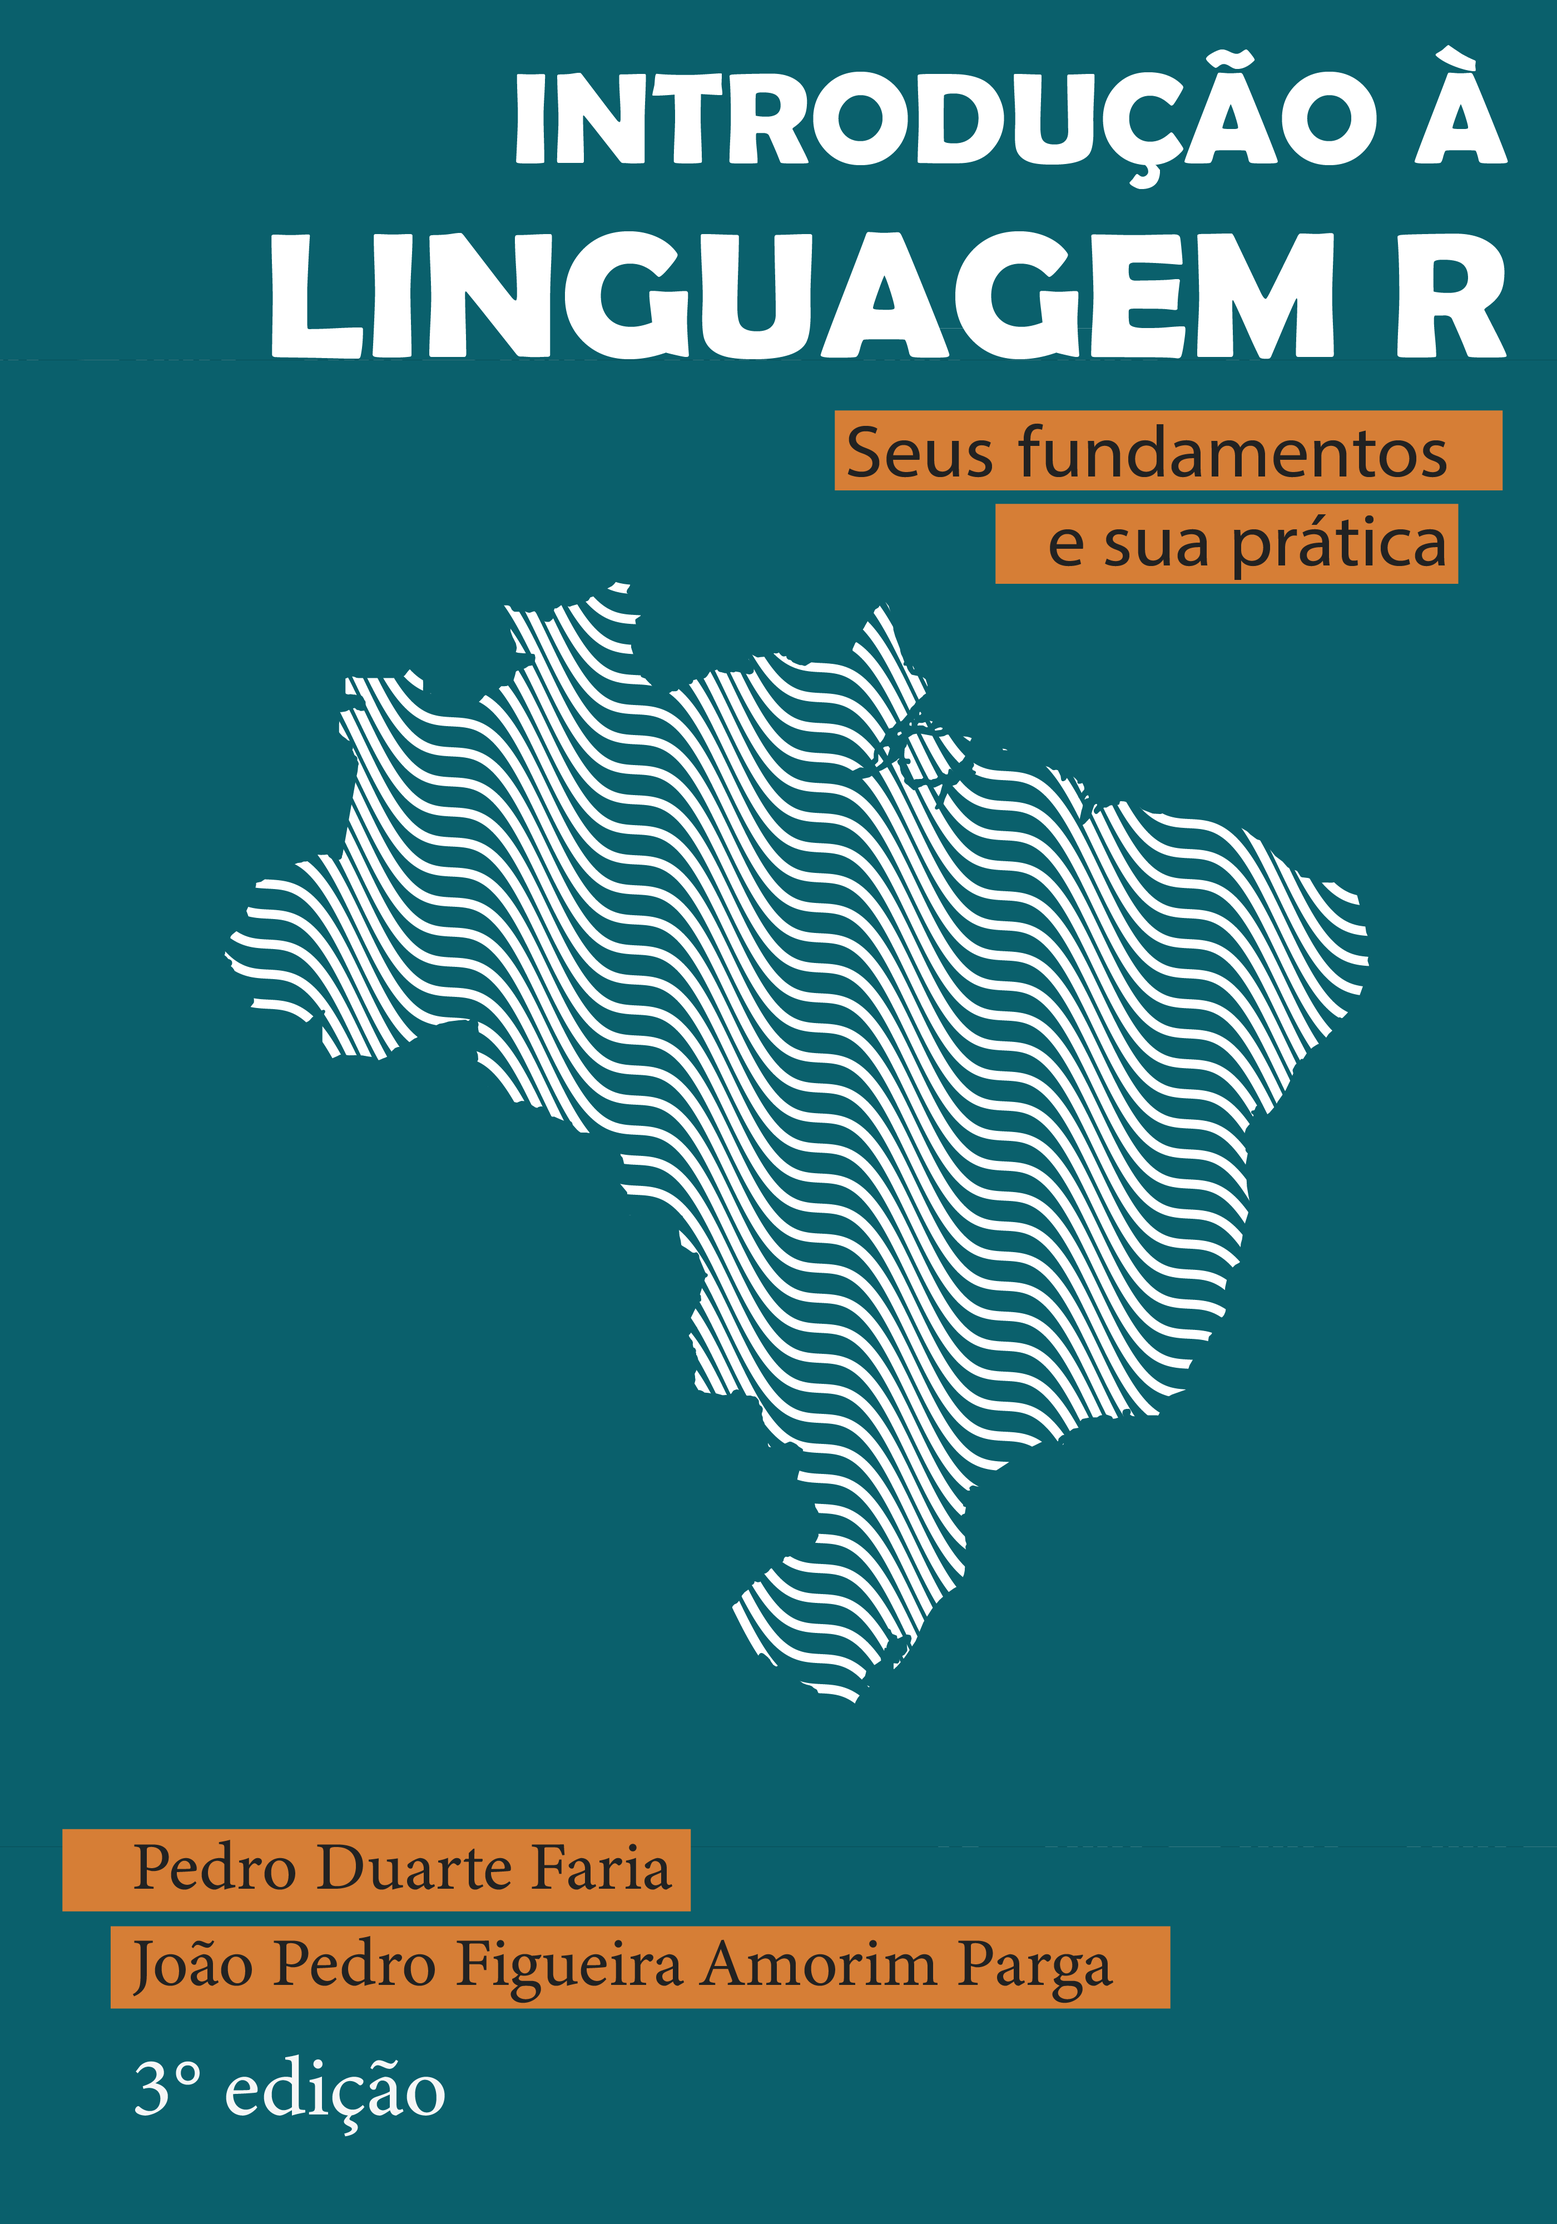
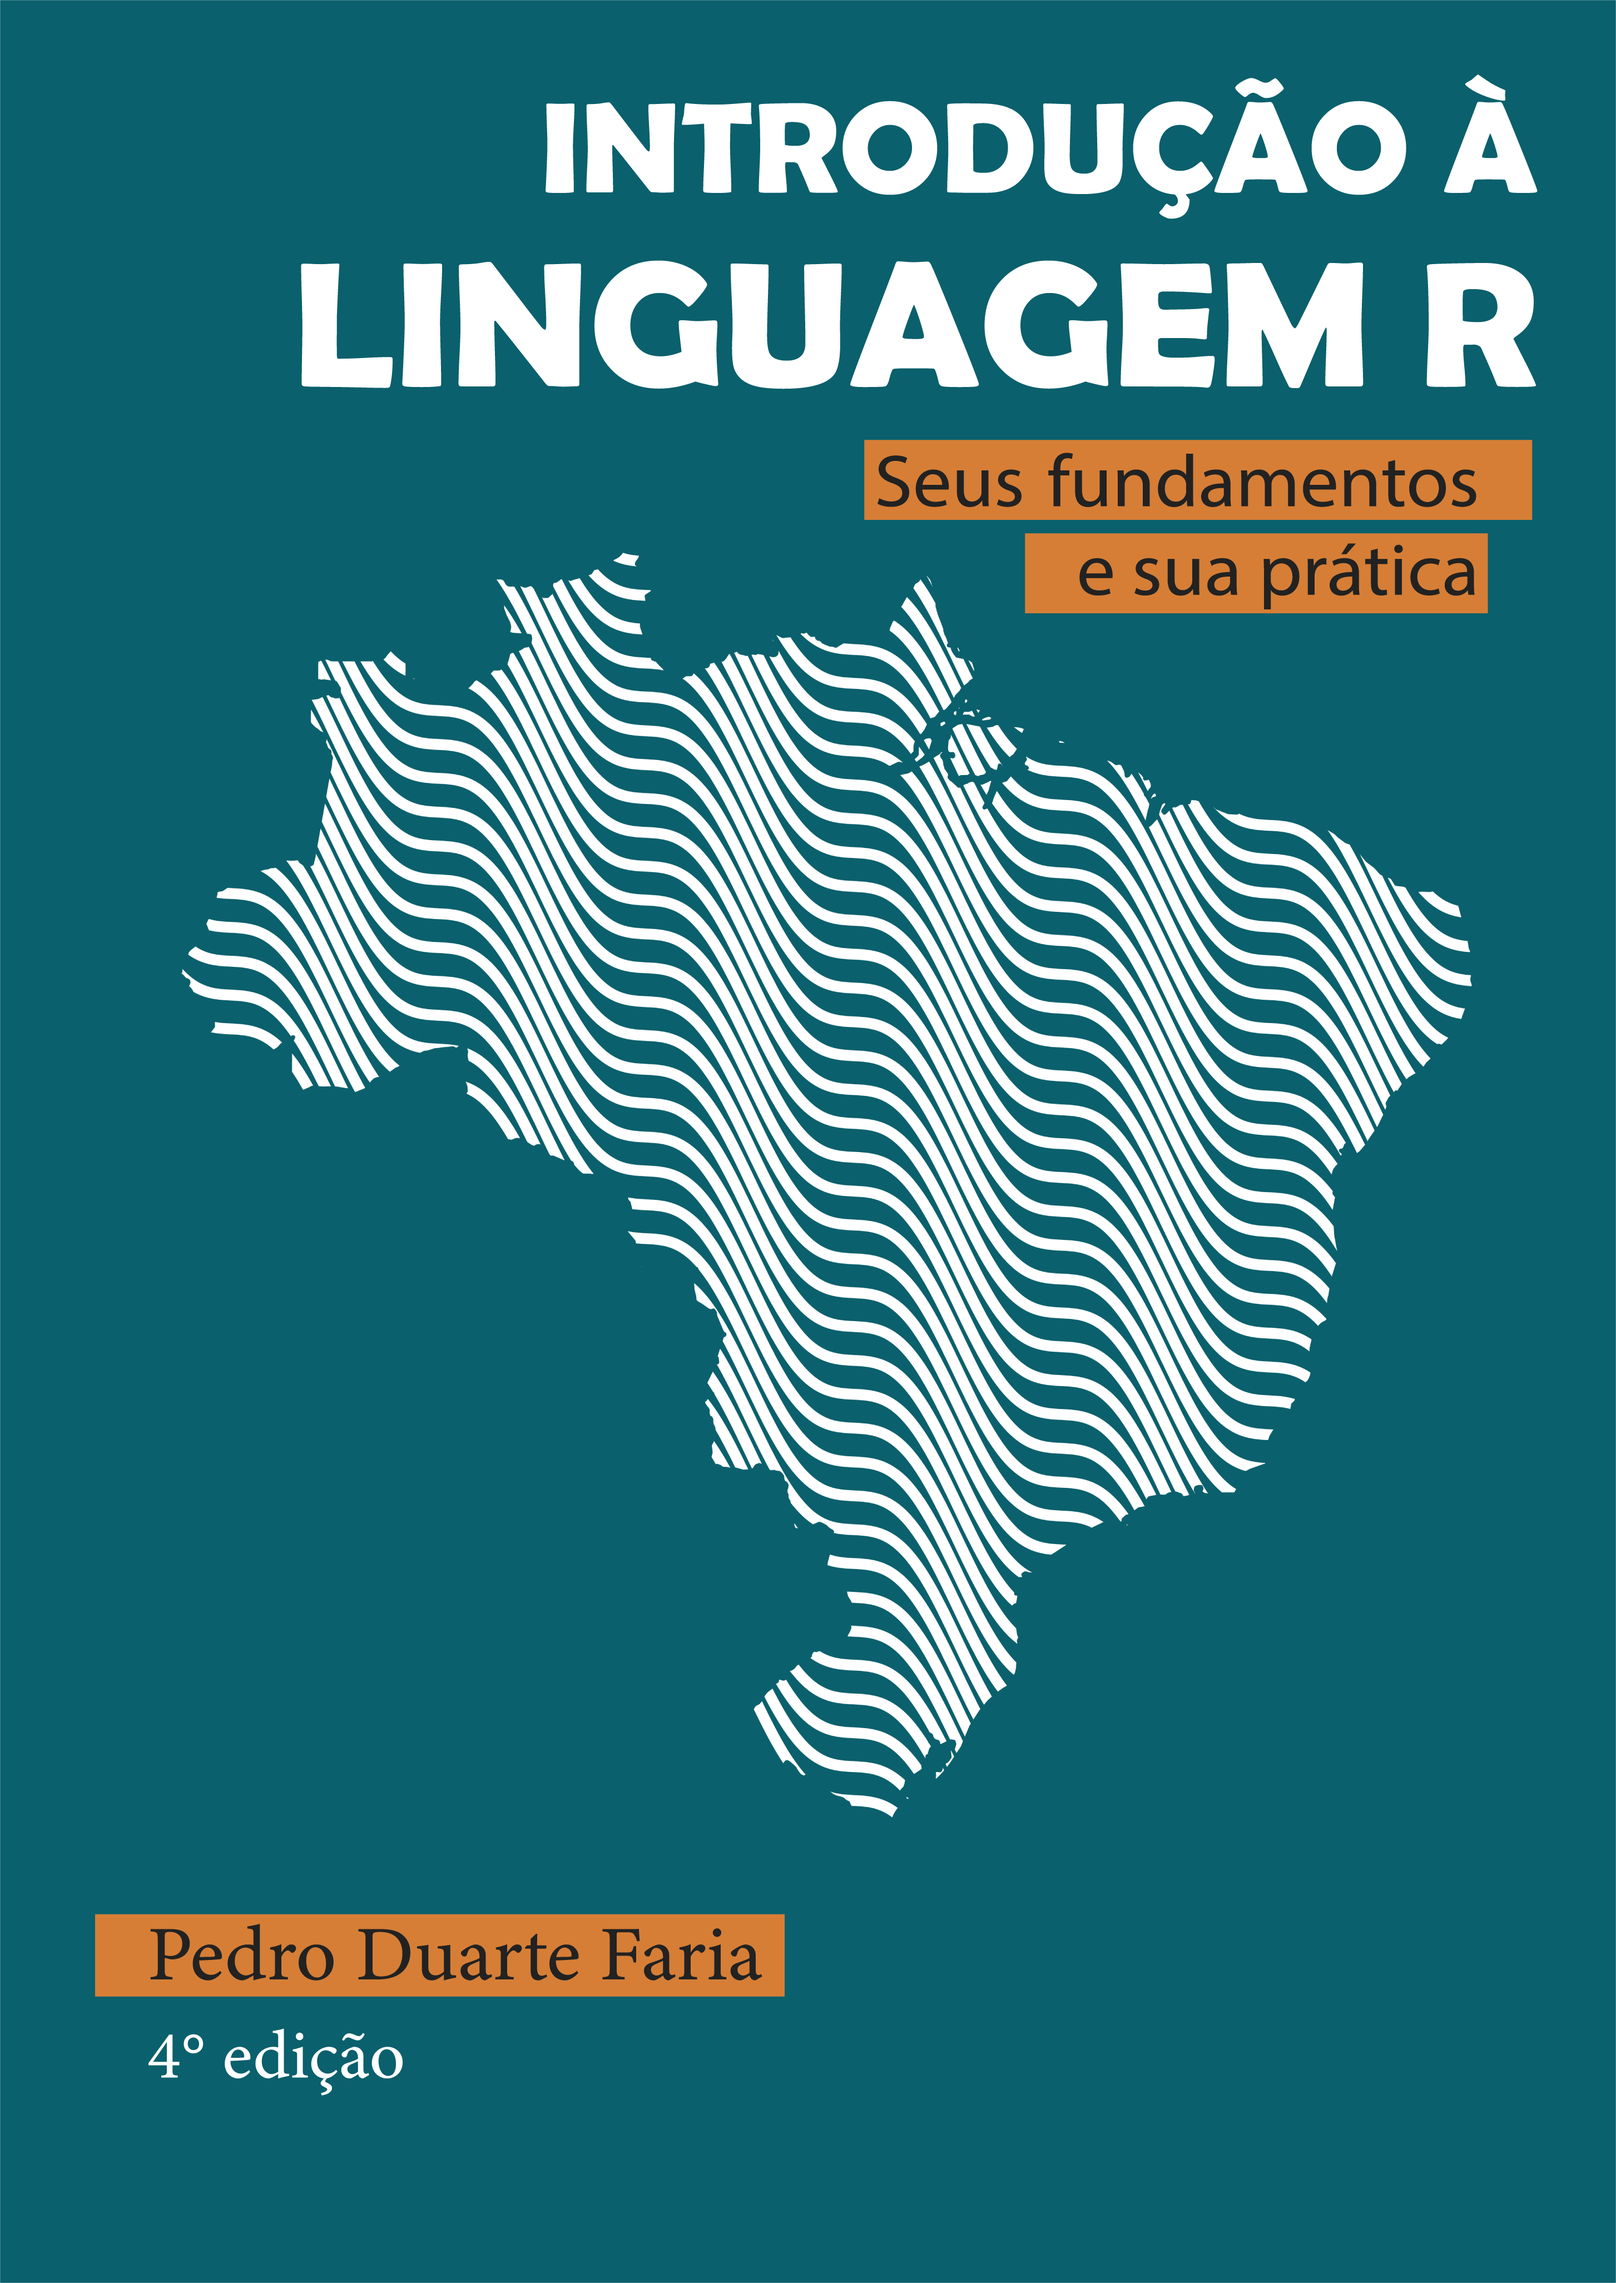
Update publication page

Changed region(s): [[0.1243, 0.0, 0.9632, 0.8125], [0.0311, 0.8125, 0.7768, 0.9688]]

diff --git a/_site/publications/book/introducao_linguagem_R/pt/index.html b/_site/publications/book/introducao_linguagem_R/pt/index.html
@@ -7,7 +7,7 @@
 <meta name="viewport" content="width=device-width, initial-scale=1.0, user-scalable=yes">
 
 <meta name="author" content="Pedro Duarte Faria">
-<meta name="dcterms.date" content="2022-04-11">
+<meta name="dcterms.date" content="2022-12-01">
 <meta name="description" content="Este livro oferece uma descrição profunda sobre os fundamentos da linguagem R, e como eles se aplicam no contexto da análise de dados.">
 
 <title>home |&gt; dplyr::glimpse() - Introdução à Linguagem R: seus fundamentos e sua prática</title>
@@ -210,17 +210,16 @@ gtag('config', 'G-7E6XG4WKHE', { 'anonymize_ip': true});
   <div class="quarto-title-meta">
 
       <div>
-      <div class="quarto-title-meta-heading">Authors</div>
+      <div class="quarto-title-meta-heading">Author</div>
       <div class="quarto-title-meta-contents">
                <p>Pedro Duarte Faria </p>
-               <p>João Pedro Figueira Amorim Parga </p>
             </div>
     </div>
       
       <div>
       <div class="quarto-title-meta-heading">Published</div>
       <div class="quarto-title-meta-contents">
-        <p class="date">April 11, 2022</p>
+        <p class="date">December 1, 2022</p>
       </div>
     </div>
     
@@ -282,13 +281,13 @@ gtag('config', 'G-7E6XG4WKHE', { 'anonymize_ip': true});
 <pre><code>@book{pedro2022,
   title = {Introdução à Linguagem R},
   subtitle = {seus fundamentos e sua prática},
-  author = {Pedro Duarte Faria and João Pedro Figueira Amorim Parga},
+  author = {Pedro Duarte Faria},
   year = {2022},
-  edition = {3},
+  edition = {4},
   address = {Belo Horizonte},
-  month = {Abril},
-  isbn = {978-65-00-43003-5},
-  url = {https://pedro-faria.netlify.app/pt/publication/book/introducao_linguagem_r/}
+  month = {Dezembro},
+  isbn = {978-65-00-57872-0},
+  note = {https://pedro-faria.netlify.app/pt/publication/book/introducao_linguagem_r/}
 }</code></pre>
 </div>
 </div>

diff --git a/_site/publications/pt.html b/_site/publications/pt.html
@@ -285,7 +285,7 @@ gtag('config', 'G-7E6XG4WKHE', { 'anonymize_ip': true});
     </div>
 </div>
 <div class="list quarto-listing-default">
-<div class="quarto-post image-right" data-index="0" data-categories="R Language,Book,Brazil" data-listing-date-sort="1649721600000" data-listing-file-modified-sort="1668386118326" data-listing-reading-time-sort="2.08">
+<div class="quarto-post image-right" data-index="0" data-categories="R Language,Book,Brazil" data-listing-date-sort="1669863600000" data-listing-file-modified-sort="1669900187895" data-listing-reading-time-sort="2.08">
 <div class="thumbnail">
 <p><a href="../publications/book/introducao_linguagem_R/pt/index.html"> <img src="../publications/book/introducao_linguagem_R/featured.png" class="thumnail-image"> </a></p>
 </div>
@@ -318,7 +318,7 @@ Brazil
 <div class="metadata">
 <a href="../publications/book/introducao_linguagem_R/pt/index.html">
 <div class="listing-date">
-Apr 11, 2022
+Dec 1, 2022
 </div>
 <div class="listing-author">
 Pedro Duarte Faria

diff --git a/_site/publications/index.html b/_site/publications/index.html
@@ -325,7 +325,7 @@ Pedro Duarte Faria
 </div>
 </a>
 </div>
-<div class="g-col-1" data-index="1" data-categories="R Language,Book,Brazil" data-listing-date-sort="1649721600000" data-listing-file-modified-sort="1668386118326" data-listing-reading-time-sort="2.08">
+<div class="g-col-1" data-index="1" data-categories="R Language,Book,Brazil" data-listing-date-sort="1669863600000" data-listing-file-modified-sort="1669900187895" data-listing-reading-time-sort="2.08">
 <a href="../publications/book/introducao_linguagem_R/pt/index.html" class="quarto-grid-link">
 <div class="quarto-grid-item card h-100 card-left">
 <p class="card-img-top">
@@ -354,7 +354,7 @@ Este livro oferece uma descrição profunda sobre os fundamentos da linguagem R,
 Pedro Duarte Faria
 </div>
 <div class="listing-date">
-Apr 11, 2022
+Dec 1, 2022
 </div>
 </div>
 </div>

diff --git a/_site/index.html b/_site/index.html
@@ -298,7 +298,7 @@ Pedro Duarte Faria
 </div>
 </a>
 </div>
-<div class="g-col-1" data-index="1" data-categories="R Language,Book,Brazil" data-listing-date-sort="1649721600000" data-listing-file-modified-sort="1668386118326" data-listing-reading-time-sort="2.08">
+<div class="g-col-1" data-index="1" data-categories="R Language,Book,Brazil" data-listing-date-sort="1669863600000" data-listing-file-modified-sort="1669900187895" data-listing-reading-time-sort="2.08">
 <a href="./publications/book/introducao_linguagem_R/pt/index.html" class="quarto-grid-link">
 <div class="quarto-grid-item card h-100 card-left">
 <p class="card-img-top">
@@ -316,7 +316,7 @@ Este livro oferece uma descrição profunda sobre os fundamentos da linguagem R,
 Pedro Duarte Faria
 </div>
 <div class="listing-date">
-Apr 11, 2022
+Dec 1, 2022
 </div>
 </div>
 </div>

diff --git a/_site/publications.html b/_site/publications.html
@@ -349,7 +349,7 @@ Pedro Duarte Faria
 </div>
 </a>
 </div>
-<div class="g-col-1" data-index="4" data-categories="R Language,Book,Brazil" data-listing-date-sort="1649721600000" data-listing-file-modified-sort="1668386118326" data-listing-reading-time-sort="2.08">
+<div class="g-col-1" data-index="4" data-categories="R Language,Book,Brazil" data-listing-date-sort="1669863600000" data-listing-file-modified-sort="1669900187895" data-listing-reading-time-sort="2.08">
 <a href="./publications/book/introducao_linguagem_R/pt/index.html" class="quarto-grid-link">
 <div class="quarto-grid-item card h-100 card-left">
 <p class="card-img-top">
@@ -378,7 +378,7 @@ Este livro oferece uma descrição profunda sobre os fundamentos da linguagem R,
 Pedro Duarte Faria
 </div>
 <div class="listing-date">
-Apr 11, 2022
+Dec 1, 2022
 </div>
 </div>
 </div>
